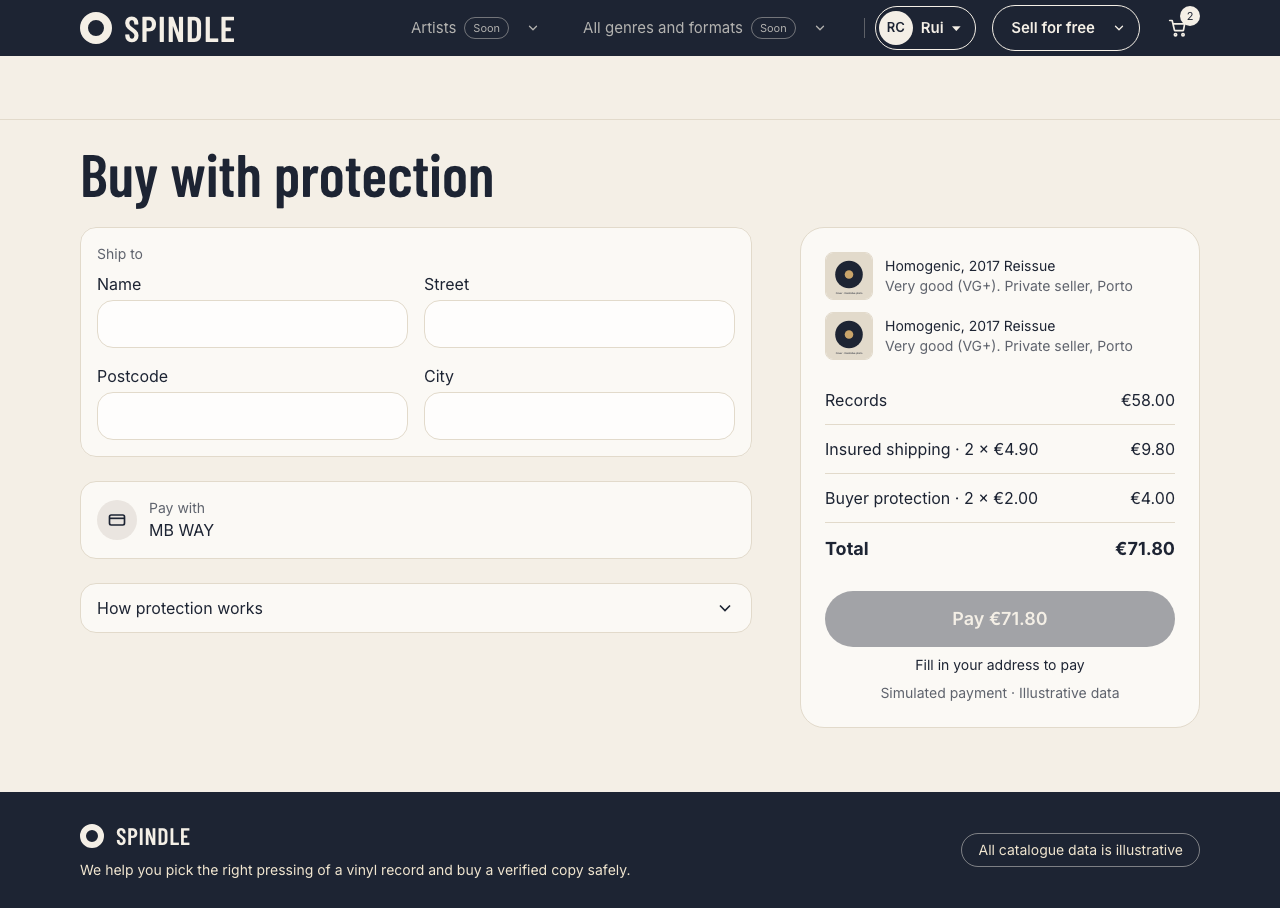
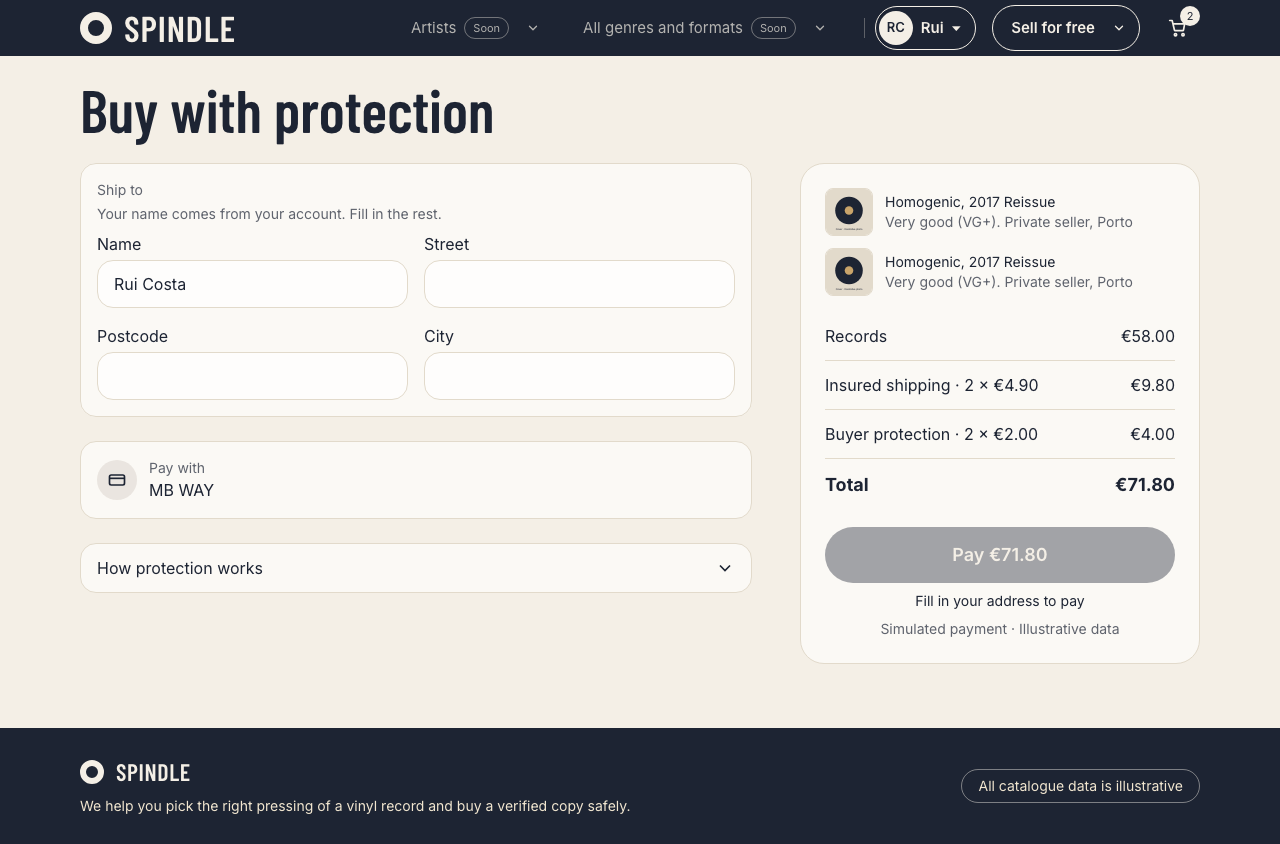
User test 21 Nov, group 3: arrows on the genre row on desktop (story 36), 12 px between the order buttons (bug 34), text on where the checkout address comes from (bug 36)

diff --git a/tests/e2e/home.spec.ts b/tests/e2e/home.spec.ts
@@ -6,7 +6,7 @@ import { screenshot } from "./screenshot";
 
 const ZIGGY = "The Rise and Fall of Ziggy Stardust and the Spiders from Mars";
 
-test("home page: title, search, one crate per genre with real counts, and two 'This week' cards", async ({ page }) => {
+test("home page: title, search, one crate per genre with real counts, and two 'This week' cards", async ({ page, isMobile }) => {
   await page.goto("/");
   await expect(page.getByRole("heading", { level: 1 })).toHaveText("Pick a crate. We'll pick the pressing.");
   await expect(page.getByText("No jargon, no homework.")).toBeVisible();
@@ -17,10 +17,18 @@ test("home page: title, search, one crate per genre with real counts, and two 'T
   for (const name of ["Classical, 8 records", "Electronic, 2 records", "Fado, 1 record", "Hip-hop, 1 record", "Jazz, 1 record", "Rock, 19 records", "Soul and funk, 1 record"]) {
     await expect(page.getByRole("link", { name })).toBeVisible();
   }
-  // Story 24: seven crates → a row with a progress line and the label; no arrows. On phone fewer crates fit, so the
+  // Story 24: seven crates → a row with a progress line and the label. On phone fewer crates fit, so the
   // visible range is shorter ("Showing 1 to 2 of 7 genres").
   await expect(page.getByText(/^Showing 1 to \d of 7 genres$/)).toBeVisible();
-  await expect(page.getByRole("region", { name: "Pick a crate" }).getByRole("button")).toHaveCount(0);
+  // Story 36: the arrows and their heading show on desktop only; the phone swipes.
+  const arrows = page.getByRole("region", { name: "Pick a crate" }).getByRole("button");
+  if (isMobile) {
+    await expect(arrows).toHaveCount(0); // hidden, so not even in the accessibility tree
+    await expect(page.getByRole("heading", { name: "Crates by genre" })).toHaveCount(0);
+  } else {
+    await expect(page.getByRole("heading", { name: "Crates by genre" })).toBeVisible();
+    await expect(arrows).toHaveText(["‹", "›"]);
+  }
 
   const week = page.getByRole("region", { name: "This week at the shop" });
   await expect(week.getByText("This weekend")).toBeVisible();
@@ -47,6 +55,34 @@ test("with 7 genres the crate row moves by drag, shows its progress line, and a 
   await expect(page.getByText(/^Showing [2-9] to \d of 7 genres$/)).toBeVisible(); // the label follows the row
   await expect(page).toHaveURL("/");
   await screenshot(page, 24, "crate-row");
+});
+
+// Story 36: on desktop the arrows move the row one crate at a time; the label follows; the ends disable them.
+test("desktop: the arrows move the crate row one crate, the label follows, and the ends disable them (story 36)", async ({ page, isMobile }) => {
+  test.skip(isMobile, "no arrows on the phone");
+  await page.goto("/");
+  const prev = page.getByRole("button", { name: "Previous genres" });
+  const next = page.getByRole("button", { name: "Next genres" });
+  const row = page.getByRole("region", { name: /Crates by genre/ });
+  await expect(page.getByText("Showing 1 to 4 of 7 genres")).toBeVisible();
+  await expect(prev).toBeDisabled();
+  await expect(next).toBeEnabled();
+  await screenshot(page, 36, "arrows-start", { fullPage: false });
+  await next.click();
+  await expect(page.getByText("Showing 2 to 5 of 7 genres")).toBeVisible();
+  await expect(prev).toBeEnabled();
+  await prev.click();
+  await expect(page.getByText("Showing 1 to 4 of 7 genres")).toBeVisible();
+  await expect(prev).toBeDisabled();
+  for (let i = 0; i < 3; i++) {
+    await next.click();
+    await expect(page.getByText(`Showing ${i + 2} to ${i + 5} of 7 genres`)).toBeVisible();
+  }
+  await expect(next).toBeDisabled(); // the end of the row
+  await expect(prev).toBeEnabled();
+  await expect.poll(() => row.evaluate((el) => el.scrollLeft)).toBeGreaterThan(0);
+  await screenshot(page, 36, "arrows-end", { fullPage: false });
+  await expect(page).toHaveURL("/");
 });
 
 test("a crate opens the genre screen: only that genre's albums, newest first, rows as in search", async ({ page }) => {

diff --git a/components/CrateRow.tsx b/components/CrateRow.tsx
@@ -1,11 +1,12 @@
 "use client";
 // The crates of the home page (story 12, story 24). Up to six: a grid. From seven: one row that moves by drag, trackpad,
 // swipe or the keyboard, with a progress line and "Showing 1 to 4 of N genres" under it (option C of
-// docs/design/crate-carousel-options.html). No arrows.
+// docs/design/crate-carousel-options.html). Story 36: on desktop (1024 px and wider) a heading and two arrows too
+// (option A of docs/design/user-test-options.html).
 import Link from "next/link";
 import { useLayoutEffect, useRef, useState } from "react";
 import { Crate } from "@/components/Crate";
-import { isCrateRow, recordsLabel, showingLabel, type Genre } from "@/lib/rules/home";
+import { crateArrows, isCrateRow, recordsLabel, showingLabel, type Genre } from "@/lib/rules/home";
 
 type CrateItem = { genre: Genre; count: number };
 
@@ -34,9 +35,24 @@ export function CrateRow({ crates }: { crates: CrateItem[] }) {
   return <CrateScroller crates={crates} />;
 }
 
+// Round 44 px arrow of the design (option A of docs/design/user-test-options.html); greyed when it cannot move.
+function ArrowButton({ label, disabled, onClick, children }: { label: string; disabled: boolean; onClick: () => void; children: string }) {
+  return (
+    <button
+      type="button"
+      aria-label={label}
+      disabled={disabled}
+      onClick={onClick}
+      className="flex h-11 w-11 items-center justify-center rounded-full border-[1.5px] border-navy bg-cream text-xl font-semibold text-navy disabled:cursor-default disabled:border-line disabled:text-navy/30"
+    >
+      <span aria-hidden>{children}</span>
+    </button>
+  );
+}
+
 function CrateScroller({ crates }: { crates: CrateItem[] }) {
   const trackRef = useRef<HTMLDivElement>(null);
-  const [view, setView] = useState({ first: 1, last: 1, thumbWidth: 100, thumbLeft: 0 });
+  const [view, setView] = useState({ first: 1, last: 1, thumbWidth: 100, thumbLeft: 0, canPrev: false, canNext: true });
   // Mouse drag (story 24): trackpad and touch swipe scroll natively; a mouse does not, so the row follows the pointer.
   const drag = useRef({ active: false, startX: 0, startLeft: 0, moved: false });
 
@@ -91,7 +107,15 @@ function CrateScroller({ crates }: { crates: CrateItem[] }) {
     const thumbLeft = maxScroll > 0 ? (el.scrollLeft / maxScroll) * (100 - thumbWidth) : 0;
     const first = Math.min(Math.round(el.scrollLeft / step) + 1, total - visible + 1);
     const last = Math.min(total, first + visible - 1);
-    setView({ first, last, thumbWidth, thumbLeft });
+    setView({ first, last, thumbWidth, thumbLeft, ...crateArrows(el.scrollLeft, maxScroll) });
+  }
+
+  // Story 36: an arrow moves the row by one crate (desktop only; the arrows are hidden below 1024 px).
+  function step(direction: 1 | -1) {
+    const el = trackRef.current;
+    if (!el) return;
+    const item = el.firstElementChild as HTMLElement | null;
+    el.scrollBy({ left: direction * ((item?.offsetWidth ?? 0) + GAP_PX), behavior: "smooth" });
   }
 
   useLayoutEffect(() => {
@@ -104,6 +128,17 @@ function CrateScroller({ crates }: { crates: CrateItem[] }) {
 
   return (
     <div>
+      <div className="mb-3 hidden items-center justify-between lg:flex">
+        <h2 className="font-heading text-3xl lg:text-4xl">Crates by genre</h2>
+        <div className="flex gap-2.5">
+          <ArrowButton label="Previous genres" disabled={!view.canPrev} onClick={() => step(-1)}>
+            ‹
+          </ArrowButton>
+          <ArrowButton label="Next genres" disabled={!view.canNext} onClick={() => step(1)}>
+            ›
+          </ArrowButton>
+        </div>
+      </div>
       <div
         ref={trackRef}
         onScroll={measure}

diff --git a/tests/unit/shippingAddress.test.ts b/tests/unit/shippingAddress.test.ts
@@ -1,7 +1,7 @@
 // Decision table from story 7 · Acceptance criteria: Pay is disabled until name, street, postcode
 // and city are filled in and the postcode has the format 0000-000.
 import { describe, expect, it } from "vitest";
-import { canPay, maskPostcode, postcodeError, POSTCODE_FORMAT } from "@/lib/rules/shippingAddress";
+import { addressSource, addressSourceNote, canPay, maskPostcode, postcodeError, POSTCODE_FORMAT } from "@/lib/rules/shippingAddress";
 
 const FULL = { name: "Ana Silva", street: "Rua das Flores 12", postcode: "4050-262", city: "Porto" };
 
@@ -49,5 +49,22 @@ describe("maskPostcode (bug 7)", () => {
     [" 4050 262 ", "4050-262"], // spaces are ignored (pasted text)
   ] as const)("%j → %j", (typed, masked) => {
     expect(maskPostcode(typed)).toBe(masked);
+  });
+});
+
+// Bug 36 decision table: where the starting address comes from, in the order of startingAddress
+// (saved → last order → name from sign-up → nothing), and the line under "Ship to" for each.
+describe("addressSource and addressSourceNote (bug 36)", () => {
+  const LAST = { ...FULL, city: "Lisboa" };
+  it.each([
+    ["saved and last order", FULL, LAST, "Rui", "saved", "Filled in from the delivery address saved in your account. You can change it for this order."],
+    ["saved only", FULL, null, null, "saved", "Filled in from the delivery address saved in your account. You can change it for this order."],
+    ["last order only", null, LAST, "Rui", "last-order", "Filled in from your last order. You can change it for this order."],
+    ["name only", null, null, "Rui Costa", "account-name", "Your name comes from your account. Fill in the rest."],
+    ["name of only spaces", null, null, "   ", null, null],
+    ["nothing", null, null, null, null, null],
+  ])("%s", (_label, saved, last, name, source, note) => {
+    expect(addressSource(saved, last, name)).toBe(source);
+    expect(addressSourceNote(addressSource(saved, last, name))).toBe(note);
   });
 });

diff --git a/tests/unit/home.test.ts b/tests/unit/home.test.ts
@@ -1,7 +1,7 @@
 // Decision tables from story 12: crates only for genres with albums (real counts), the genre screen newest
 // first, and the featured album (most active listings among albums that open; newest on a tie; none → null).
 import { describe, expect, it } from "vitest";
-import { albumsInGenre, crates, featuredAlbum, genreFromSlug, isCrateRow, recordsLabel, showingLabel } from "@/lib/rules/home";
+import { albumsInGenre, crateArrows, crates, featuredAlbum, genreFromSlug, isCrateRow, recordsLabel, showingLabel } from "@/lib/rules/home";
 
 // Story 24 decision table: six or fewer crates is a grid; seven or more is a row with a progress line and a label.
 describe("isCrateRow", () => {
@@ -11,6 +11,20 @@ describe("isCrateRow", () => {
     [7, true],
     [8, true],
   ])("%i crates → row? %s", (count, row) => expect(isCrateRow(count)).toBe(row));
+});
+
+// Story 36 decision table: the arrows of the crate row (row of 600 px scrolling up to 400 px).
+describe("crateArrows", () => {
+  it.each([
+    [0, 400, false, true], // start: only next
+    [0.5, 400, false, true], // rounding noise still counts as the start
+    [150, 400, true, true], // middle: both
+    [399.5, 400, true, false], // rounding noise still counts as the end
+    [400, 400, true, false], // end: only previous
+    [0, 0, false, false], // nothing to scroll: neither
+  ])("scrollLeft %f of %f → previous %s, next %s", (left, max, prev, next) =>
+    expect(crateArrows(left, max)).toEqual({ canPrev: prev, canNext: next }),
+  );
 });
 
 describe("showingLabel", () => {

diff --git a/app/checkout/[listingId]/CheckoutForm.tsx b/app/checkout/[listingId]/CheckoutForm.tsx
@@ -25,6 +25,7 @@ export function CheckoutForm({
   rows,
   total,
   initialAddress,
+  addressNote,
   login,
 }: {
   pay: (prev: PayState, form: FormData) => Promise<PayState>;
@@ -32,6 +33,7 @@ export function CheckoutForm({
   record: React.ReactNode; // version, condition, seller and city (one block for each record)
   rows: [label: string, amount: number][]; // the lines before the total
   total: number;
+  addressNote: string | null; // where the starting address comes from (bug 36)
   initialAddress: ShippingAddress | null; // address of the most recent order (bug 6)
   login: { purpose: LoginPurpose; record?: LoginRecord }; // the log-in window if the session ends before Pay (story 29)
 }) {
@@ -67,6 +69,7 @@ export function CheckoutForm({
         <fieldset className="order-2 rounded-2xl border border-line bg-white/60 p-4">
           <legend className="sr-only">Shipping address</legend>
           <p aria-hidden className="text-sm text-navy/70">Ship to</p>
+          {addressNote && <p className="mt-1 text-sm text-navy/70">{addressNote}</p>}
           <div className="mt-2 grid gap-4 sm:grid-cols-2">
             <Field name="name" label="Name" autoComplete="name" value={address.name} onChange={set("name")} />
             <Field name="street" label="Street" autoComplete="street-address" value={address.street} onChange={set("street")} />

diff --git a/lib/rules/shippingAddress.ts b/lib/rules/shippingAddress.ts
@@ -40,3 +40,27 @@ export function startingAddress(
   const name = accountName?.trim() ?? "";
   return name ? { name, street: "", postcode: "", city: "" } : null;
 }
+
+// Bug 36: where the form's starting address comes from, and the line under "Ship to" that says so. The source is
+// decided by the same order as startingAddress; with nothing filled in there is no line.
+export type AddressSource = "saved" | "last-order" | "account-name";
+
+export function addressSource(
+  saved: ShippingAddress | null,
+  lastOrder: ShippingAddress | null,
+  accountName: string | null = null,
+): AddressSource | null {
+  if (saved) return "saved";
+  if (lastOrder) return "last-order";
+  return (accountName?.trim() ?? "") ? "account-name" : null;
+}
+
+const SOURCE_NOTES: Record<AddressSource, string> = {
+  saved: "Filled in from the delivery address saved in your account. You can change it for this order.",
+  "last-order": "Filled in from your last order. You can change it for this order.",
+  "account-name": "Your name comes from your account. Fill in the rest.",
+};
+
+export function addressSourceNote(source: AddressSource | null): string | null {
+  return source ? SOURCE_NOTES[source] : null;
+}

diff --git a/tests/e2e/confirmReceipt.spec.ts b/tests/e2e/confirmReceipt.spec.ts
@@ -118,6 +118,13 @@ test("Your account shows the order 'On its way': only Paid is done, with 'It arr
   const steps = card.getByRole("list", { name: "Order progress" }).getByRole("listitem");
   await expect(steps).toHaveText(["Paid (done)", "Shipped", "You confirm", "Seller paid"]);
   await expect(card.getByRole("button", { name: "It arrived, all good" })).toBeVisible();
+  // Bug 34: the two buttons are 12 px apart, not touching (or, when they wrap, one line apart).
+  const arrived = await card.getByRole("button", { name: "It arrived, all good" }).boundingBox();
+  const message = await card.getByRole("button", { name: "Message the seller" }).boundingBox();
+  if (!arrived || !message) throw new Error("an order button has no size");
+  const sideBySide = Math.abs(arrived.y - message.y) < 4;
+  const gap = sideBySide ? message.x - (arrived.x + arrived.width) : message.y - (arrived.y + arrived.height);
+  expect(Math.round(gap)).toBeGreaterThanOrEqual(12);
   await expect(page.getByText(/report a problem/i)).toHaveCount(0);
   await expect(page.getByText("Simulated payment · Illustrative data")).toBeVisible();
   await expect(page.getByRole("region", { name: "Delivered" })).toHaveCount(0);

diff --git a/app/checkout/[listingId]/page.tsx b/app/checkout/[listingId]/page.tsx
@@ -3,7 +3,7 @@ import { getListingCheck } from "@/lib/db/listings";
 import { currentUserId } from "@/lib/db/session";
 import { getLastShippingAddress } from "@/lib/db/orders";
 import { getSavedAddresses } from "@/lib/db/addresses";
-import { startingAddress } from "@/lib/rules/shippingAddress";
+import { addressSource, addressSourceNote, startingAddress } from "@/lib/rules/shippingAddress";
 import { currentProfileId, getProfileName } from "@/lib/db/profiles";
 import { canCheckout, checkoutPath, isNoLongerAvailable, isOwnListing, ownListingPath } from "@/lib/rules/checkoutAccess";
 import { ListingUnavailable } from "@/components/ListingUnavailable";
@@ -104,6 +104,7 @@ export default async function CheckoutPage({
         ]}
         total={amounts.total}
         initialAddress={initialAddress}
+        addressNote={addressSourceNote(addressSource(saved.delivery, last, accountName))}
         login={{ purpose: "buy", record: loginSummary }}
       />
     </main>

diff --git a/app/cart/checkout/page.tsx b/app/cart/checkout/page.tsx
@@ -5,7 +5,7 @@ import { SellerLine } from "@/components/SellerLine";
 import { getCart } from "@/lib/db/cart";
 import { getLastShippingAddress } from "@/lib/db/orders";
 import { getSavedAddresses } from "@/lib/db/addresses";
-import { startingAddress } from "@/lib/rules/shippingAddress";
+import { addressSource, addressSourceNote, startingAddress } from "@/lib/rules/shippingAddress";
 import { getProfileName } from "@/lib/db/profiles";
 import { currentUserId } from "@/lib/db/session";
 import { cartSummaryRows, cartTotal } from "@/lib/rules/cartTotal";
@@ -62,6 +62,7 @@ export default async function CartCheckoutPage() {
         rows={cartSummaryRows(amounts)}
         total={amounts.total}
         initialAddress={initialAddress}
+        addressNote={addressSourceNote(addressSource(saved.delivery, last, accountName))}
         login={{ purpose: "cartView" }}
       />
     </main>

diff --git a/tests/e2e/checkout.spec.ts b/tests/e2e/checkout.spec.ts
@@ -192,6 +192,8 @@ test("checkout: fee and total before paying; Pay waits for a full address; no ca
   // Bug 27: no saved address and no earlier order, so only the name from sign-up is filled in; the rest stays empty.
   await expect(page.getByLabel("Name")).toHaveValue("Rui Costa");
   await expect(page.getByLabel("Street")).toHaveValue("");
+  // Bug 36: the line under "Ship to" says where the name comes from.
+  await expect(page.getByText("Your name comes from your account. Fill in the rest.")).toBeVisible();
   await shot(page, "bug-27", "name-filled-in");
   await page.getByLabel("Name").fill("Rui Costa");
   await page.getByLabel("Street").fill("Rua do Almada 120");

diff --git a/lib/rules/home.ts b/lib/rules/home.ts
@@ -31,6 +31,12 @@ export function showingLabel(first: number, last: number, total: number): string
   return `Showing ${first} to ${last} of ${total} genres`;
 }
 
+// Story 36: the two arrows of the crate row. The left one works unless the row is at its start, the right one unless
+// it is at its end (a pixel of tolerance for rounding).
+export function crateArrows(scrollLeft: number, maxScroll: number): { canPrev: boolean; canNext: boolean } {
+  return { canPrev: scrollLeft > 1, canNext: scrollLeft < maxScroll - 1 };
+}
+
 export function genreFromSlug(slug: string): Genre | null {
   return GENRES.find((g) => g.slug === slug) ?? null;
 }

diff --git a/tests/e2e/cart.spec.ts b/tests/e2e/cart.spec.ts
@@ -353,6 +353,7 @@ test("checkout: the address is typed once; Pay creates one order for each record
   await expect(page.locator('input[autocomplete^="cc-"]')).toHaveCount(0);
   await expect(page.getByText(/card number|IBAN|CVV|expiry/i)).toHaveCount(0);
   await expect(page.getByRole("textbox")).toHaveCount(4); // one address, for all the records
+  await expect(page.getByText("Your name comes from your account. Fill in the rest.")).toBeVisible(); // bug 36 (the cart checkout too)
   await screenshot(page, 20, "checkout");
   await fillAddress(page);
   await expect(pay).toBeEnabled();
